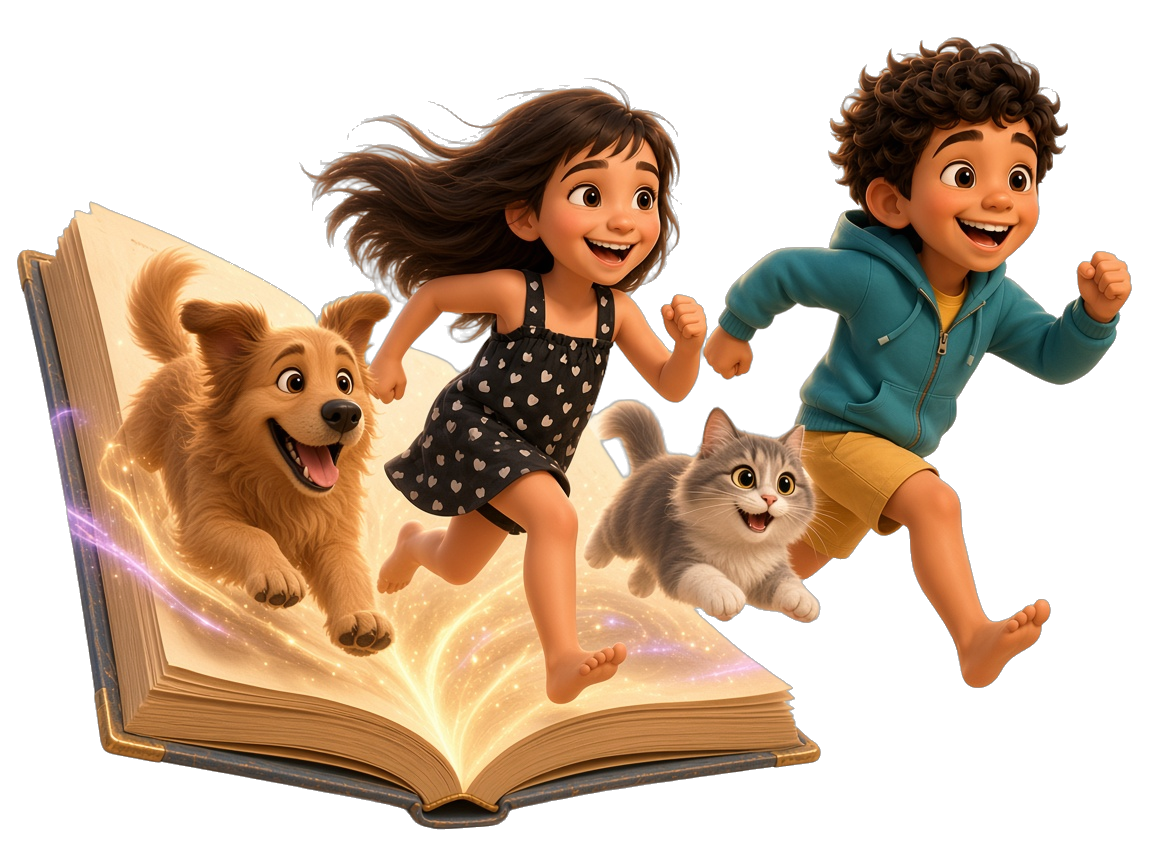
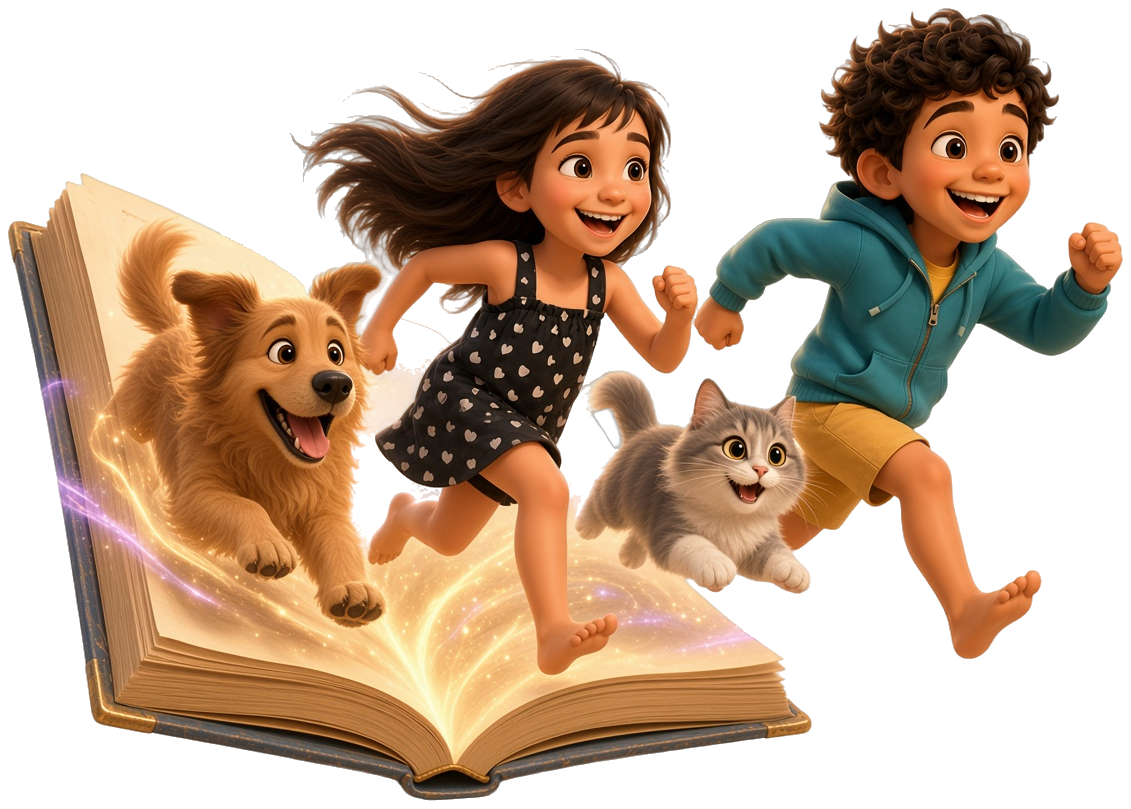
fix(landing): harden hero alpha cutout
Re-cut hero PNG with alpha matting, zero RGB under transparent pixels, tighten H1-to-copy gap, and sync image dimensions.

diff --git a/src/components/marketing/landing-home.tsx b/src/components/marketing/landing-home.tsx
@@ -123,8 +123,8 @@ export function LandingHome({ mockMode = false }: { mockMode?: boolean }) {
             <Image
               src="/brand/euzim-hero-book-breakout.png"
               alt="Crianças, um cachorro e um gato saltando de um livro mágico, como se saíssem da história"
-              width={1152}
-              height={864}
+              width={1131}
+              height={809}
               priority
               className="landing-hero-image h-auto w-full bg-transparent object-contain object-bottom"
               sizes="(max-width: 768px) 92vw, 48vw"

diff --git a/src/app/globals.css b/src/app/globals.css
@@ -346,7 +346,7 @@
     display: flex;
     flex-direction: column;
     align-items: flex-start;
-    gap: 1.25rem;
+    gap: 0.95rem;
     grid-area: stack;
   }
 
